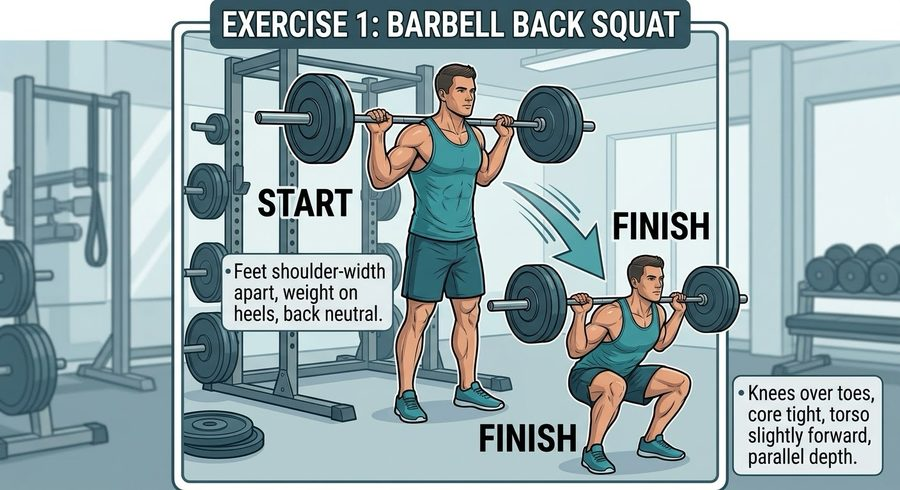
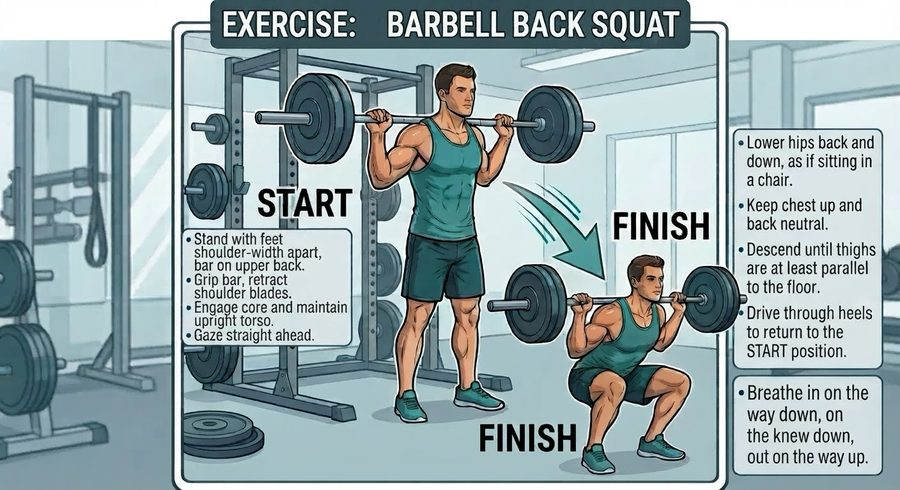
v26: add muscle-target reference photos (11/36) and exercise photo updates

diff --git a/index.html b/index.html
@@ -447,7 +447,7 @@
   // Bump this alongside CACHE_NAME in service-worker.js on every deploy —
   // shown at the bottom of Settings so you can tell at a glance whether a
   // given phone has actually picked up the latest push.
-  var APP_VERSION = "v25 · 2026-10-04";
+  var APP_VERSION = "v26 · 2026-10-04";
 
   /* ============================================================
      DATA
@@ -1188,7 +1188,7 @@
   // every name in this list must have a matching file at exercises/<slug>.jpg.
   // Exercises not yet in this list keep showing the plain stick-figure sketch
   // in the Field Manual until their photo arrives.
-  var EX_PHOTOS = ["Barbell Back Squat"];
+  var EX_PHOTOS = ["Barbell Back Squat", "Bulgarian Split Squat", "Bent-Over Barbell Row", "Strict Push-ups", "Standing Overhead Press", "Front Squat", "Assisted Pull-ups", "Band Pull-Apart", "Calf Raise", "Flat Bench Press", "Farmer's Walk", "Forearm Plank", "Conventional Deadlift", "Hanging Knee Raises", "Banded Lateral Walk", "Pallof Press", "Weighted Dips", "Strict Pull-ups", "Sandbag Bear-Hug Carry", "Hollow Body Hold", "Romanian Deadlift", "Single-Arm DB Row", "Push Press", "Kettlebell Swings", "L-Sit Progressions", "Pistol Squats", "Muscle-Up Progressions", "Handstand Push-ups", "Heavy Sled Push/Pull", "Heavy Sandbag Cleans", "Weighted Pull-ups", "Front Lever Progressions", "Face Pull (band or cable)", "Dragon Flags", "Suitcase Carries", "Lateral Bound, Stick the Landing"];
   function photoSlug(name) {
     return name.toLowerCase().replace(/[()]/g, '').replace(/[^a-z0-9]+/g, '-').replace(/^-+|-+$/g, '');
   }
@@ -1198,7 +1198,7 @@
   // added one at a time as they're supplied, at muscles/<slug>.jpg. Until an
   // exercise has one, the Manual simply shows nothing for that section
   // (no tan body-diagram placeholder anymore).
-  var EX_MUSCLE_PHOTOS = [];
+  var EX_MUSCLE_PHOTOS = ["Barbell Back Squat", "Bulgarian Split Squat", "Flat Bench Press", "Assisted Pull-ups", "Farmer's Walk", "Forearm Plank", "Calf Raise", "Band Pull-Apart", "Conventional Deadlift", "Standing Overhead Press", "Strict Push-ups"];
   function musclePhotoPath(name) { return 'muscles/' + photoSlug(name) + '.jpg'; }
 
   function bodyOutlineSVG(sex) {

diff --git a/service-worker.js b/service-worker.js
@@ -20,7 +20,7 @@
 // "Add to Home Screen" standalone mode — the message to the waiting worker
 // could silently never arrive, leaving the update stuck forever. This
 // avoids that failure mode entirely.)
-const CACHE_NAME = "ironclad-v25";
+const CACHE_NAME = "ironclad-v26";
 const APP_SHELL = [
   "./",
   "./index.html",
